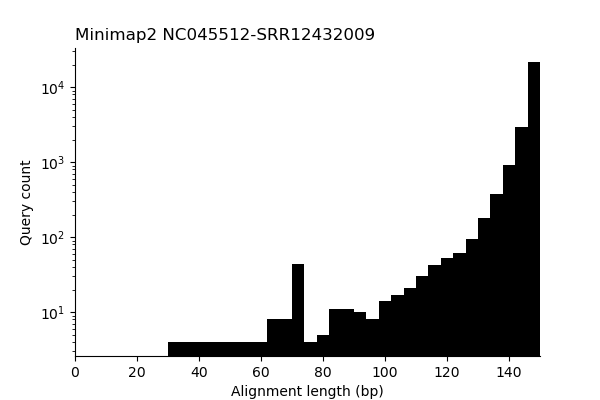
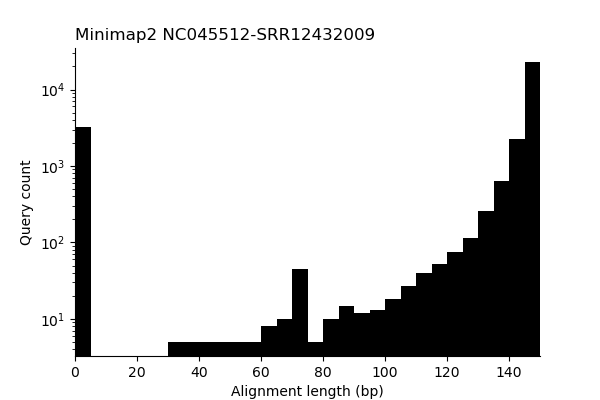
results: mm2 print stats

diff --git a/results/2026_09-minimap2-best_match_per_query/run.py b/results/2026_09-minimap2-best_match_per_query/run.py
@@ -22,6 +22,13 @@ args.xmax = float(args.xmax)
 def main():
     df = pd.read_csv(args.input,sep="\t")
     x = df['Best_Match_Length'].values
+    n = len(x)
+    median = np.median(x)
+    print("# queries:", n)
+    print("# median length:", median)
+    num_zero = np.sum(x==0)
+    perc_zero = num_zero/n*100
+    print("# zero length:", perc_zero,"%")
     assert np.all(x >= 0)
     assert np.all(x < 151)
     fig, ax = plt.subplots(figsize=(6,4))
